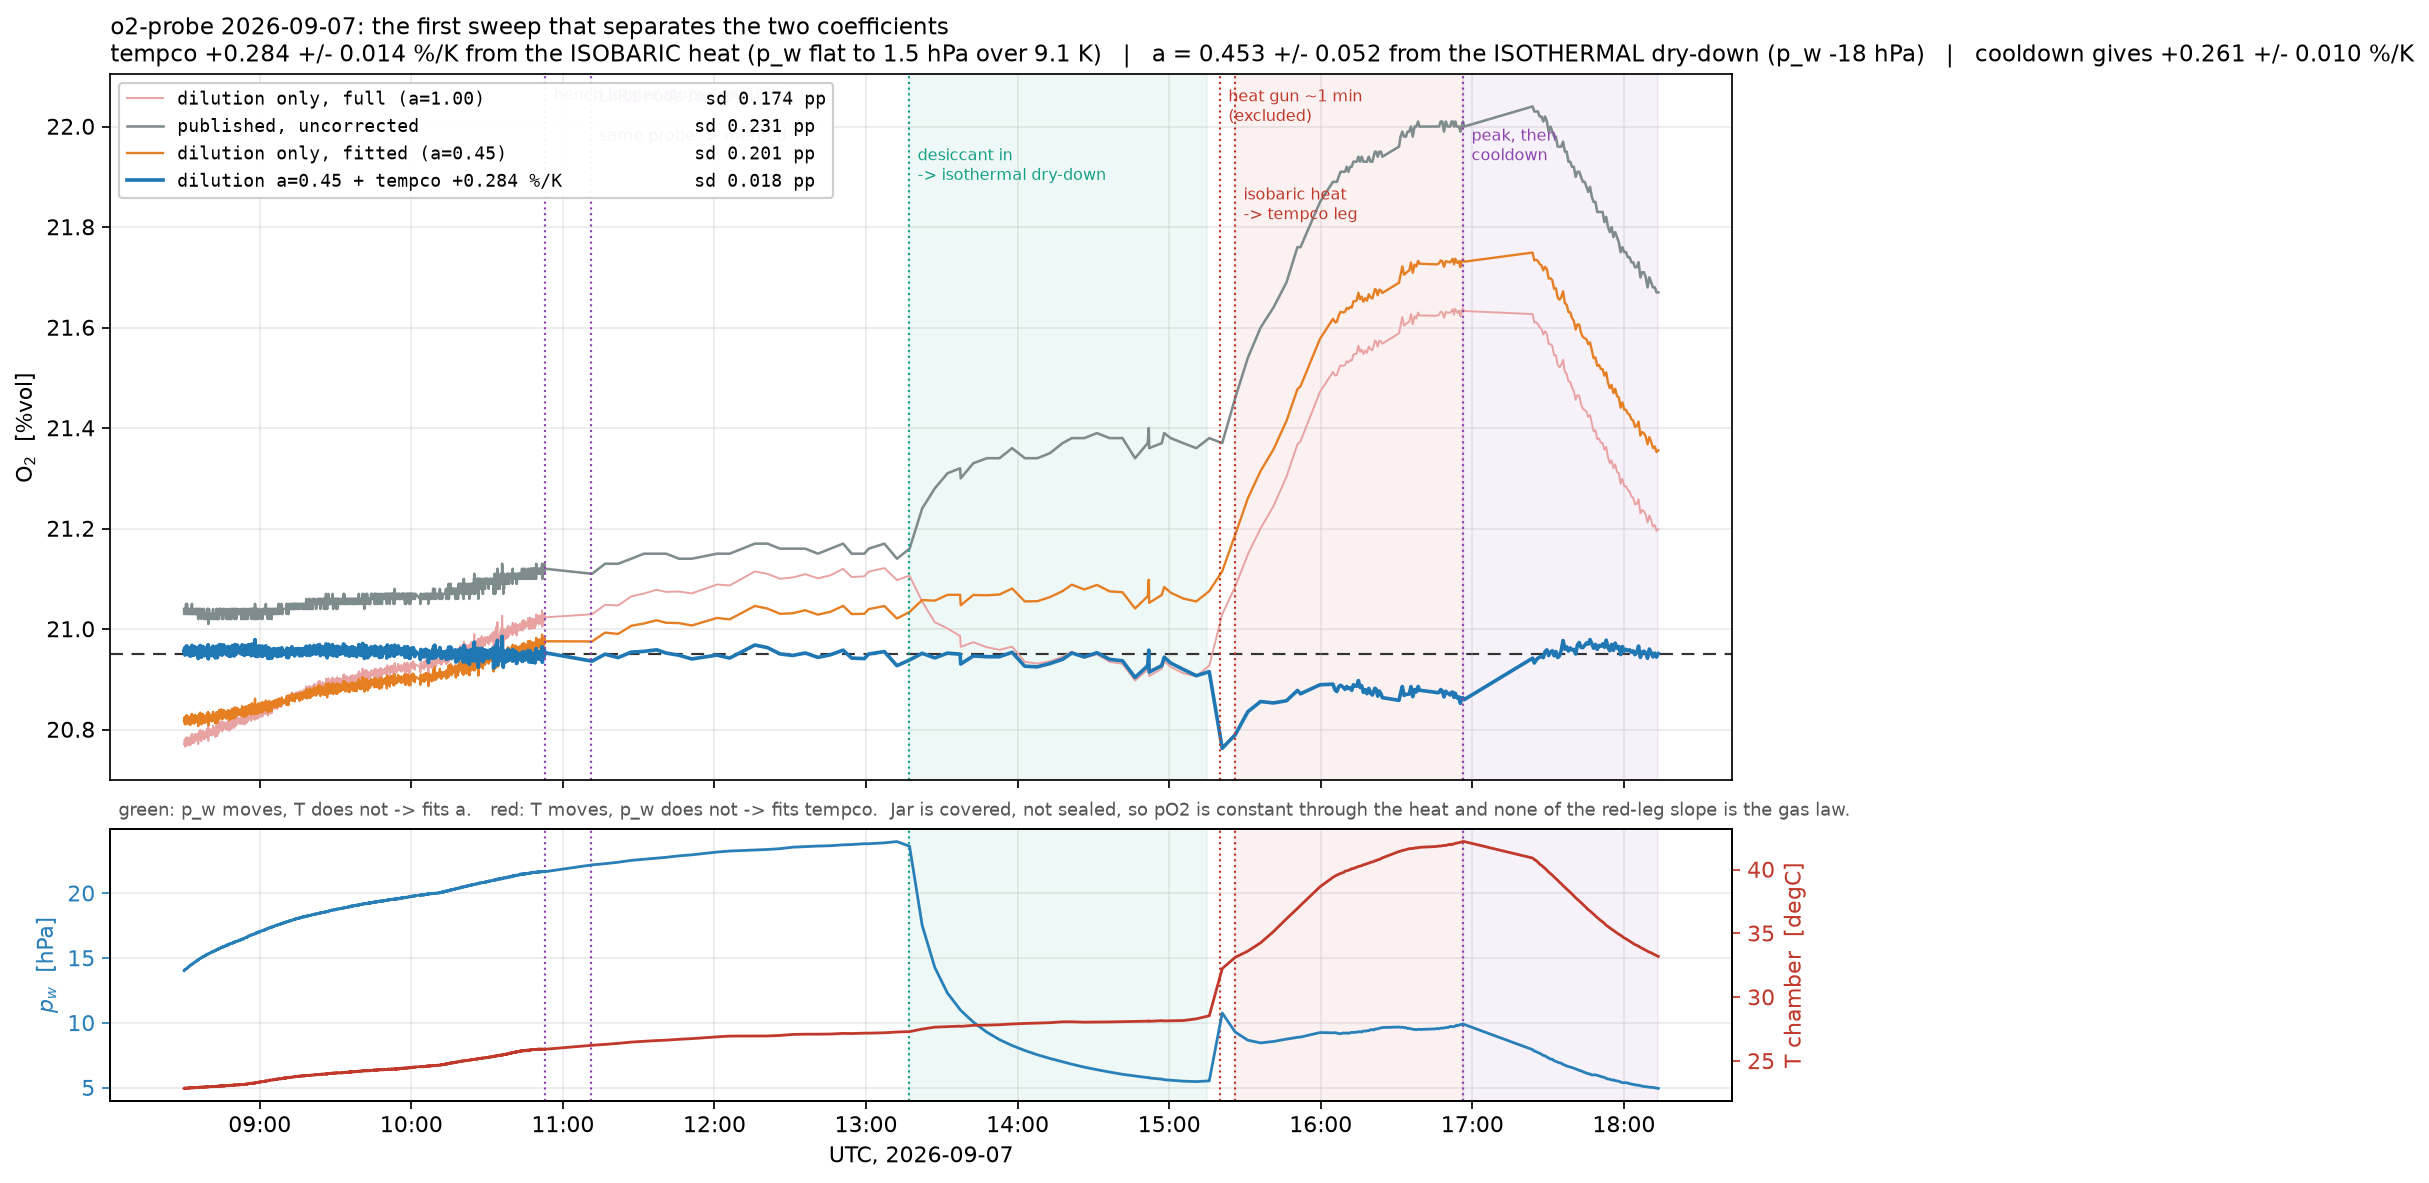
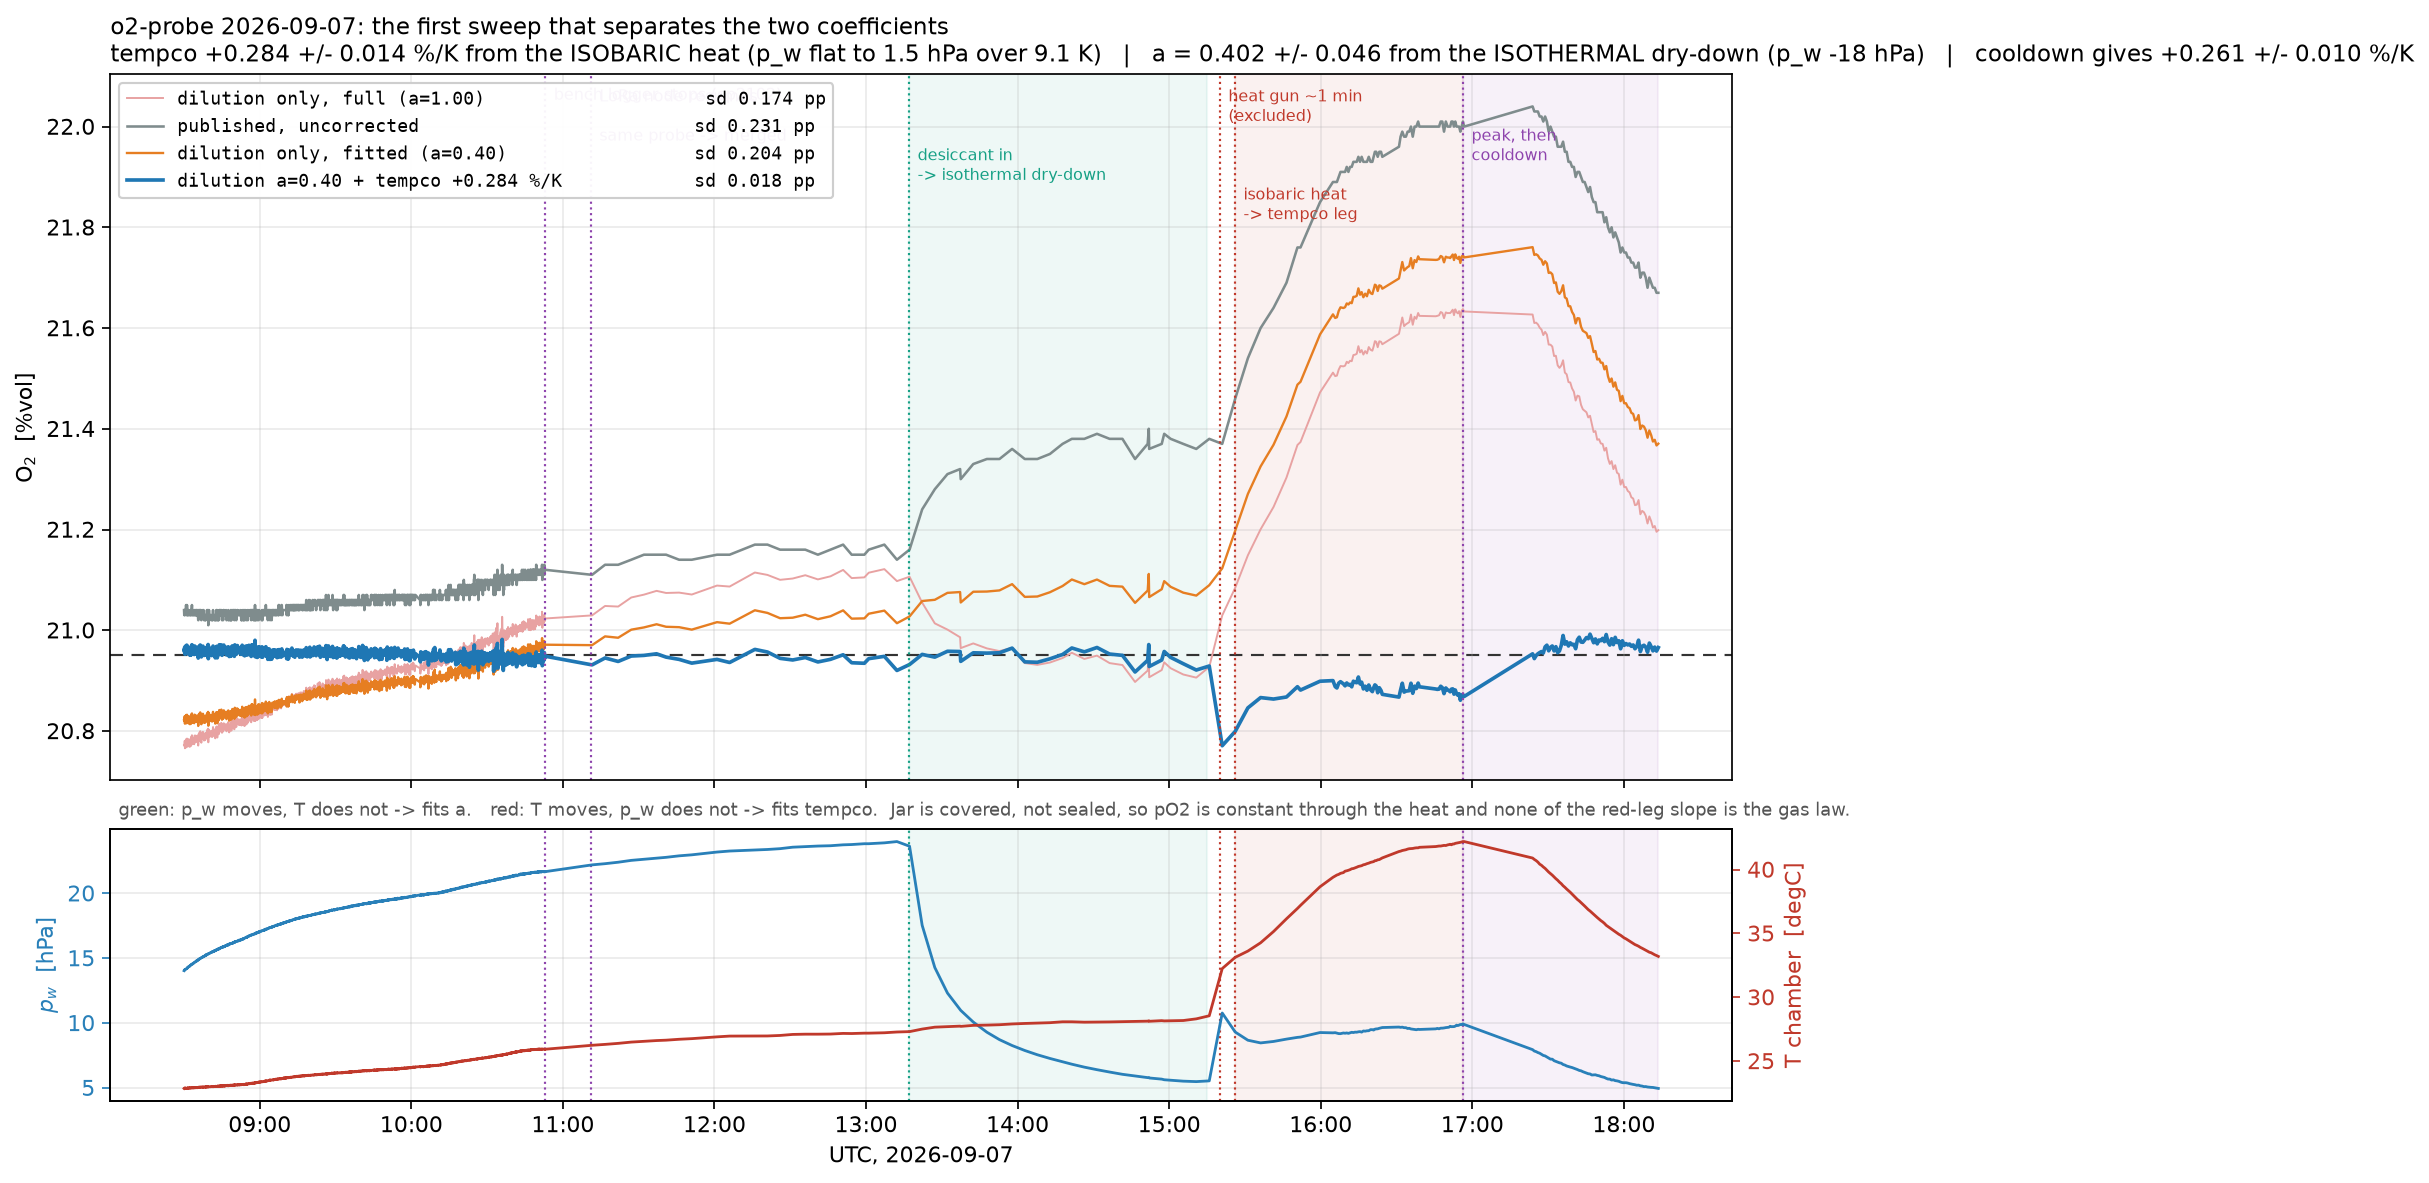
o2-probe: section 15.9 - the alpha was in the wrong units
The most consequential error in this document, and it is not in the data. The
stage-2 estimator regresses ln(I) on p_w, so its alpha means "the CURRENT
follows the ideal dilution". The firmware applies alpha to CONCENTRATION and
then goes through C = 1 - exp(-S/K). The two are separated by that law's local
gain, d ln S/d ln C = 1.1273 at 20.946 %vol - a cell law 13 % from linear at
the operating point is not a detail.

    analytic  0.4533 / 1.1273                    = 0.4021
    numeric   refit the leg in the firmware's own
              formulation                        = 0.4050

Agreeing to 0.7 %. DIL_ALPHA is 402.

Flashing 453 would have overstated the correction by 12 %, about +0.17 pp at
pile conditions against the 0.21 pp a 1 % error costs. On the bench it is
~0.02 pp over the whole dry-down - the same size as the fit's own residual -
which is what makes it the dangerous kind of error: the data it was fitted on
cannot see it.

The decision moves the right way. The threshold alpha < 1/(1+f) = 0.545 is
derived from f_eff and was ALREADY in the concentration domain; it was the
measurement that was in the wrong one. This cell is 3.1 sigma below it rather
than 1.8. 15.4's conclusion is unchanged and better supported.

The tempco needed no conversion and stays +0.284 +/- 0.014 %/K: the firmware
divides the CURRENT by (1 + tempco*dT), the same domain it is fitted in.

Also recorded: why the tests did not catch it. The end-to-end test passed at
[…]

diff --git a/hw/O2-HUMIDITY-CORRECTION.md b/hw/O2-HUMIDITY-CORRECTION.md
@@ -1404,7 +1404,7 @@ the cooldown into a usable leg: 9.00 K over ~2 h, against the heating leg's
 auto-detects the peak and fits both directions):
 
     stage 1  tempco   +0.284 +/- 0.014 %/K   n=71, dT 9.07 K, p_w range 1.46 hPa
-    stage 2  alpha    +0.453 +/- 0.052       n=28, dp_w 18.2 hPa, dT 1.00 K
+    stage 2  alpha    +0.402 +/- 0.046       n=28, dp_w 18.2 hPa, dT 1.00 K
     cooldown tempco   +0.261 +/- 0.010 %/K   n=72, dT 9.00 K   (alpha held)
 
 **+0.284 and +0.261 are 1.3 sigma apart.** The same coefficient, measured in
@@ -1443,8 +1443,75 @@ down than going up, so the cooldown leans on alpha being right in a way the
 heating leg does not. It agrees, which is real evidence - but it is one clean
 measurement plus one consistent with it, not two independent ones.
 
-**The decision does not move.** alpha = 0.453 +/- 0.052 is 1.8 sigma below the
+**The decision does not move.** alpha = 0.402 +/- 0.046 is 3.1 sigma below the
 0.545 threshold of §15.4, so full dry-basis correction is still worse than none
 at pile conditions, and the two-term form is still what should be flashed. alpha
-remains the weak half: +/- 0.052 resting on one 2 h dry-down.
+remains the weak half: +/- 0.046 resting on one 2 h dry-down.
+
+These are the CORRECTED figures - see §15.9. This section originally reported
+alpha = 0.453 +/- 0.052 and a 1.8 sigma margin, in the wrong units.
+
+### 15.9 The alpha was in the wrong units
+
+Found by adversarial review on 2026-09-07, with the register write queued and
+minutes from reaching the probe. It is the most consequential error in this
+document, and it is not in the data - it is in what the number was taken to
+mean.
+
+**Two domains, and the fit was in the wrong one.** The stage-2 estimator
+regresses `ln(I)` on `p_w` and divides by the ideal concentration slope
+`-1/(P-p_w)`:
+
+    alpha_log = [d ln(I) / d p_w] / [-1/(P - p_w)]
+
+so `alpha = 1` there means the CURRENT follows the ideal dilution exactly. The
+firmware does something different: it applies alpha to CONCENTRATION,
+`f_eff = 1 - alpha*(1-f)`, and only then goes through the cell's log law
+`C = 1 - exp(-S/K)`. The two are separated by that law's local gain,
+
+    d ln S / d ln C = C / ((1-C) * L(C)),   L(C) = -ln(1-C)
+
+which at 20.946 %vol is **1.1273**. A cell law that is 13 % away from linear
+at the operating point is not a detail; it is the whole difference between the
+two parameterisations.
+
+**Confirmed two ways, because one would not have been enough.**
+
+    analytic     0.4533 / 1.1273                        = 0.4021
+    numeric      refit the same dry-down leg in the
+                 firmware's own formulation, minimising
+                 the corrected trace                    = 0.4050
+
+They agree to 0.7 %. So the coefficient to write into `DIL_ALPHA` is **402**,
+not 453.
+
+**What flashing 453 would have cost.** It overstates the correction by 12 %.
+At pile conditions that is about **+0.17 pp** on a 20.95 %vol reading -
+against the 0.21 pp that a 1 % error costs, i.e. most of the error budget
+spent on a units mistake. On the bench it would have been nearly invisible:
+over the dry-down's 18.2 hPa the two differ by ~0.02 pp, the same size as the
+fit's own residual. That is what makes it the dangerous kind of error - the
+data it was fitted on cannot see it.
+
+**The decision moves the right way.** The threshold `alpha < 1/(1+f) = 0.545`
+is derived from `f_eff`, so it was ALREADY in the concentration domain; it was
+the measurement that was in the wrong one. Comparing like with like, this cell
+is **3.1 sigma** below the threshold rather than 1.8. §15.4's conclusion is
+unchanged and better supported than it was when it was written.
+
+**The tempco needed no conversion** and is unchanged at +0.284 +/- 0.014 %/K.
+The firmware divides the CURRENT by `(1 + tempco*dT)`, which is the same
+domain the regression is in. Only the term that crosses the cell law moves.
+
+`sweep_fit.py` now reports the firmware's number and prints the log-domain one
+beside it, so the two cannot be confused again, and `tempco_at()` converts
+back where it removes the alpha term from `ln(I)`.
+
+**Why the tests did not catch it, which is the part worth keeping.** The
+end-to-end firmware test builds a synthetic cell, calibrates it, and reads it
+across the humidity range - and it passed at 0.453. Its oracle derived the
+cell constant K from `cal->air_frac`, a value produced by the very function
+under test, so it adopted whatever the code believed and the round trip closed
+regardless. A test that cannot fail is not evidence. K now comes from the
+physics and the calibration has to agree with it.
 
